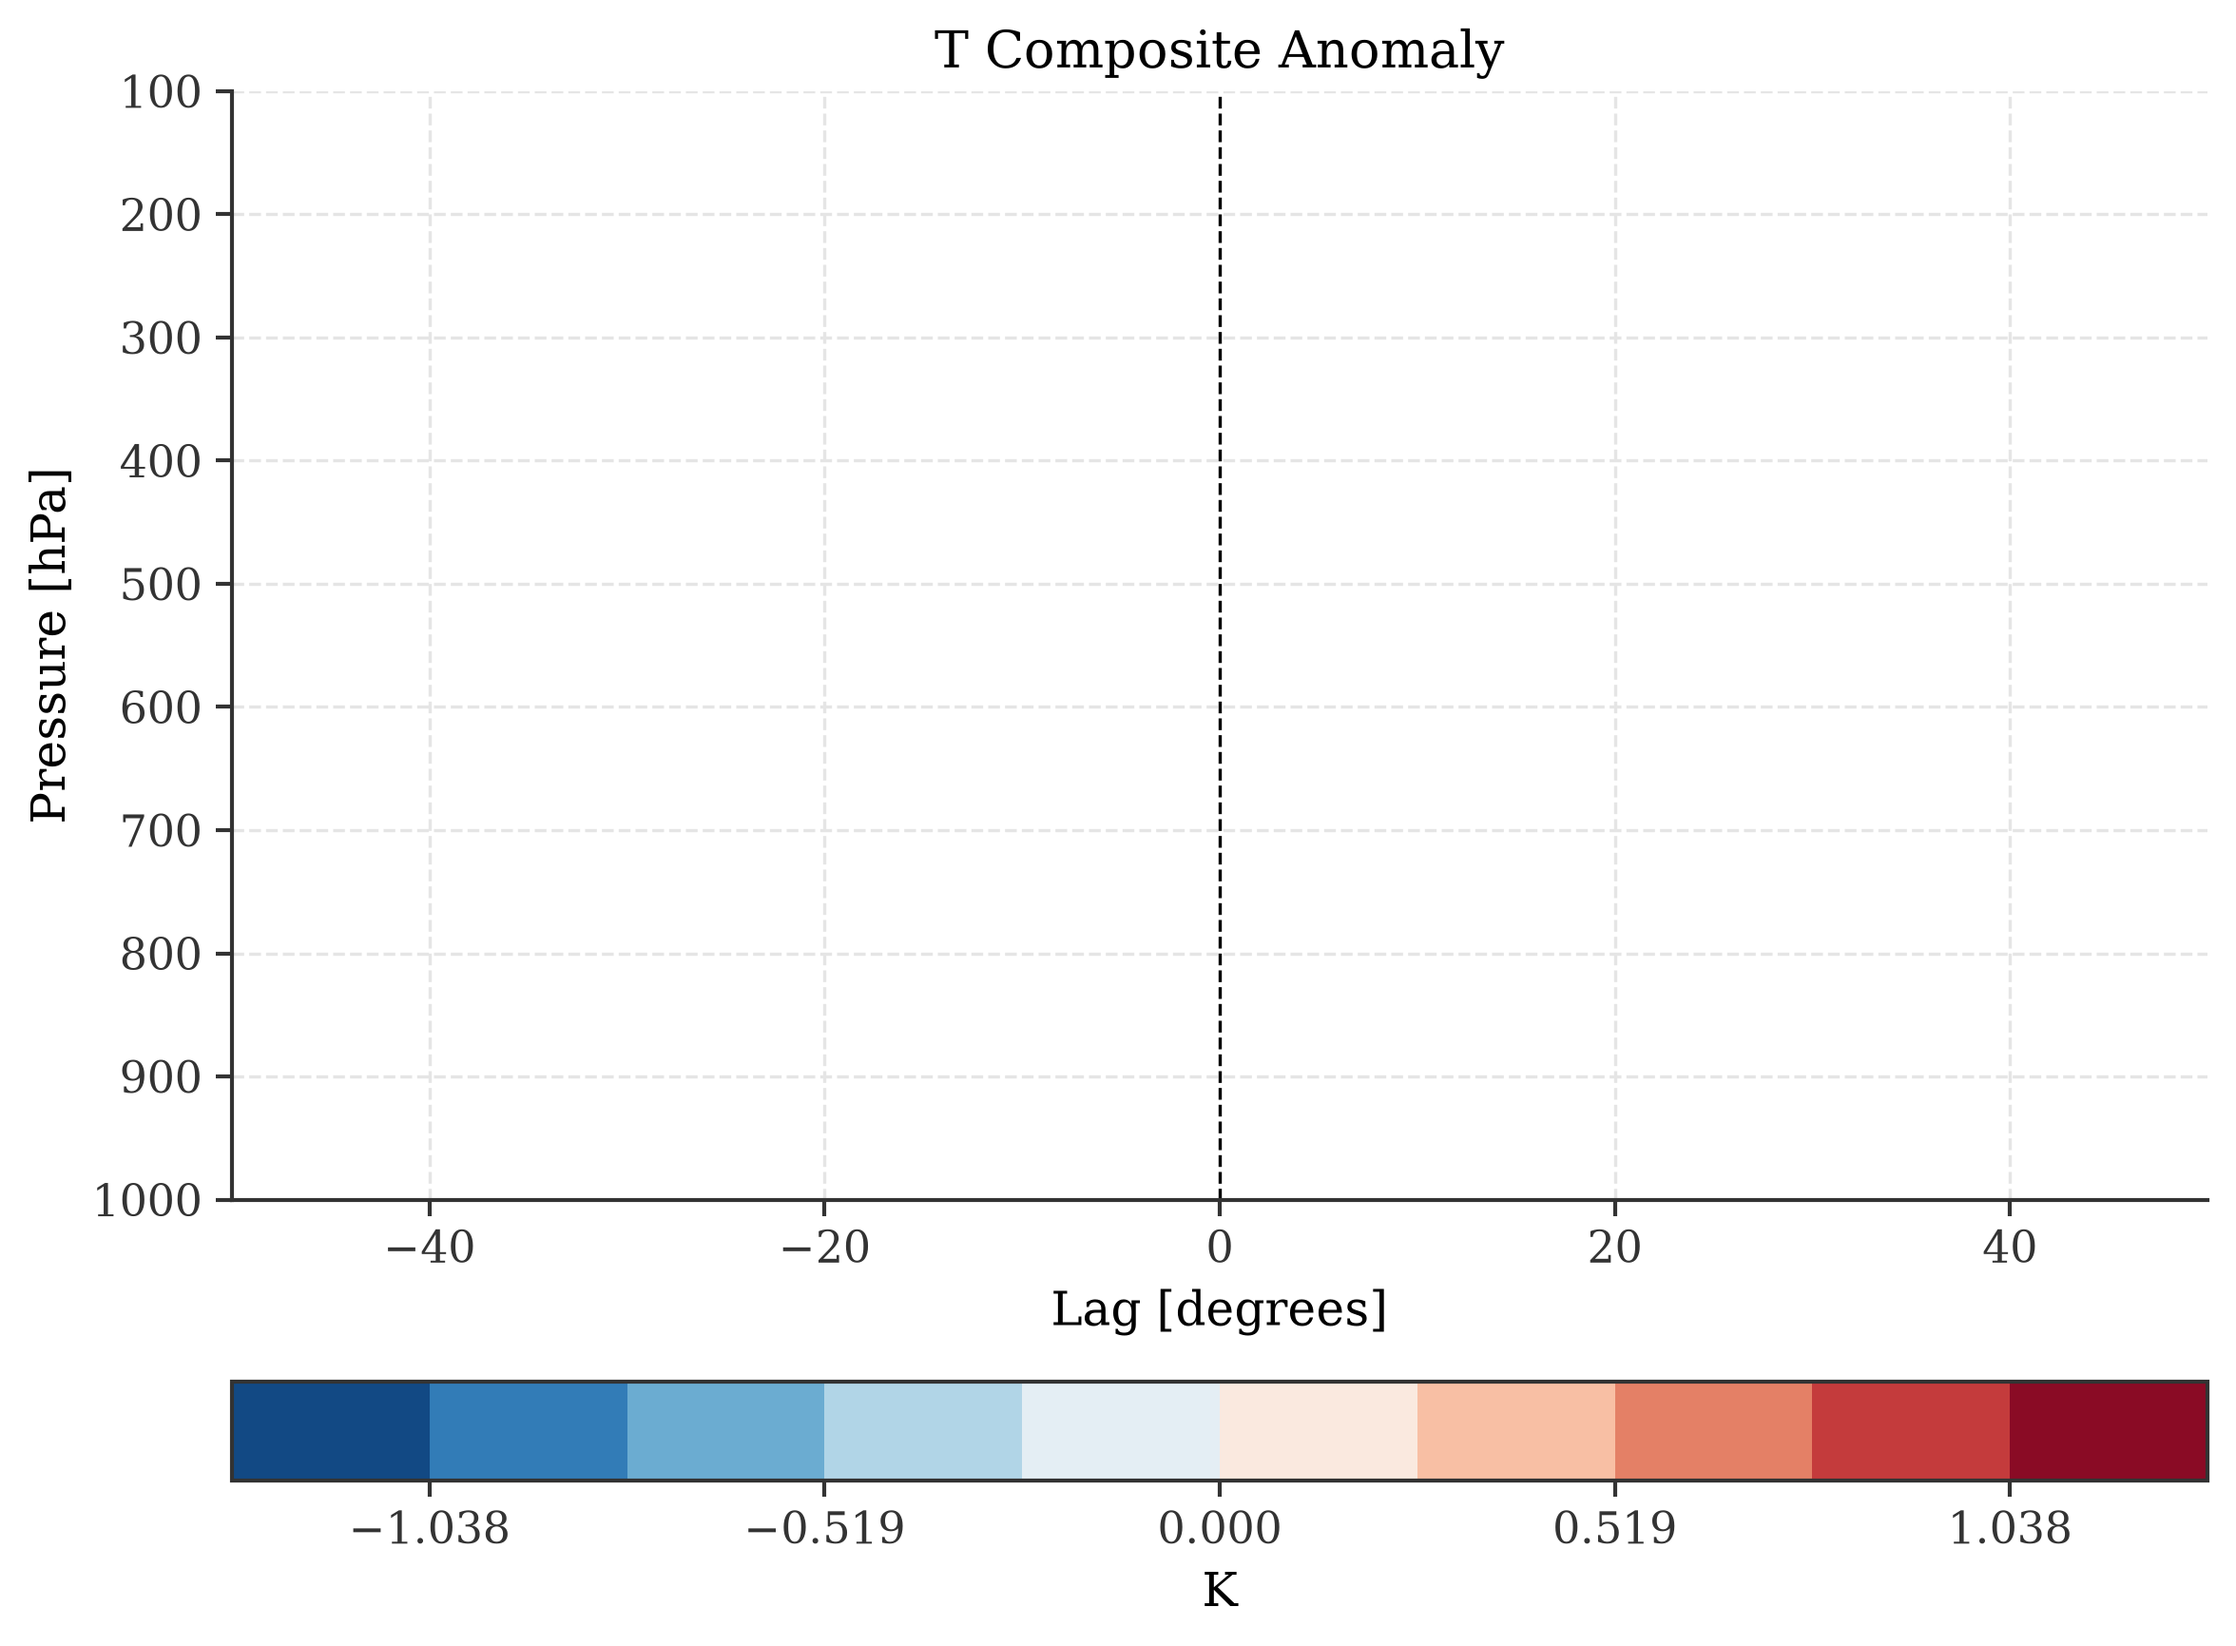
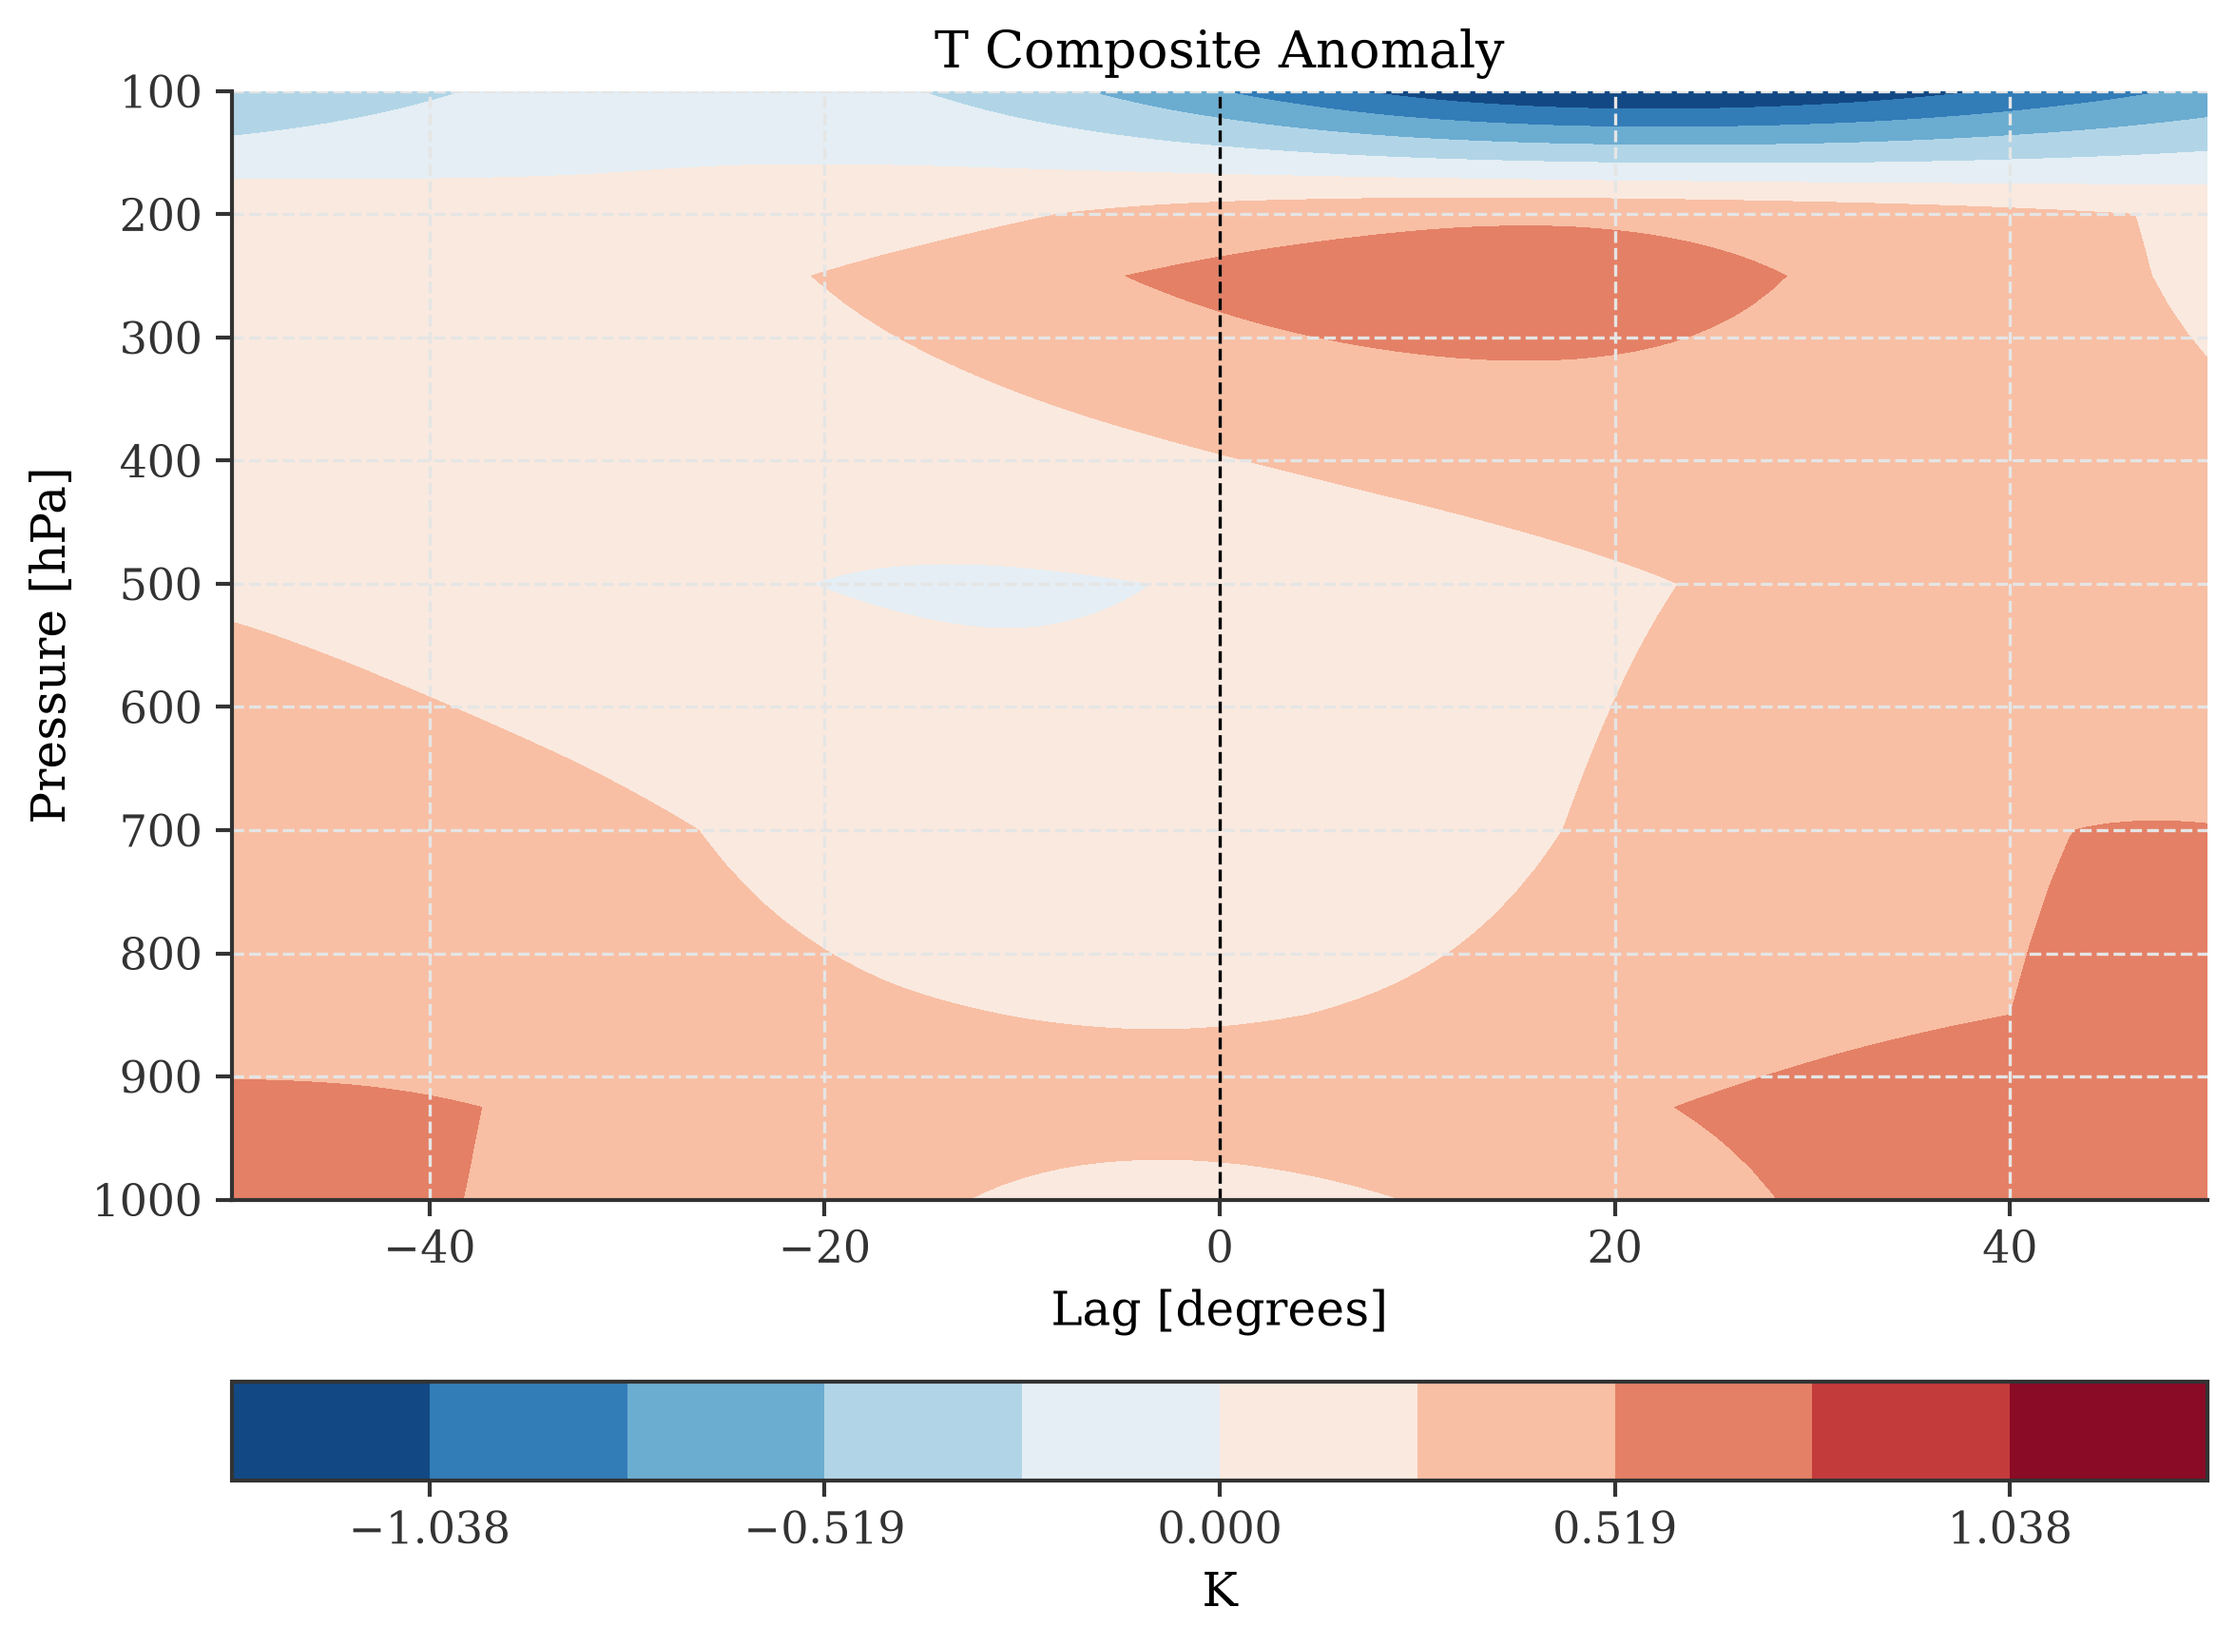
fix: convert pressure levels to hPa in contour plots and add debug prints

diff --git a/Code/ERA5_composite.py b/Code/ERA5_composite.py
@@ -141,10 +141,14 @@ def main(
     # concatenate along event
     w_conc: np.ndarray = np.array([w_roll[i] for i in range(w_roll.shape[0])])
     t_conc: np.ndarray = np.array([t_roll[i] for i in range(t_roll.shape[0])])
-
+    print("w_conc maximum: ", np.nanmax(w_conc))
+    print("t_conc maximum: ", np.nanmax(t_conc))
     # convolve over longitude
     w_comp = convolve1d(w_comp, np.ones(33)/33, axis=-1, mode="reflect")
     t_comp = convolve1d(t_comp, np.ones(33)/33, axis=-1, mode="reflect")
+
+    print("w_comp maximum: ", np.max(w_comp))
+    print("t_comp maximum: ", np.max(t_comp))
 
     pprint("Finished: composite")
 
@@ -164,7 +168,7 @@ def main(
 
     w_cf = ax.contourf(
         lags,
-        coords["lev"],
+        coords["lev"]//100,
         w_comp,
         levels=w_lev,
         cmap="RdBu_r",
@@ -193,7 +197,7 @@ def main(
 
     t_cf = ax.contourf(
         lags,
-        coords["lev"],
+        coords["lev"]//100,
         t_comp,
         levels=t_lev,
         cmap="RdBu_r",

diff --git a/Code/Rad_mode_predict.py b/Code/Rad_mode_predict.py
@@ -82,7 +82,6 @@ def main(data_type: str) -> None:
 
     w1_era5: np.ndarray = interp1d(p/100.0, w1, fill_value="extrapolate")(p_era5)
     w2_era5: np.ndarray = interp1d(p/100.0, w2, fill_value="extrapolate")(p_era5)
-
     # ------------------------------------------------
     # predict radiation through Jacobian Matrix
     # ------------------------------------------------

diff --git a/Code/QR_w_Relation.py b/Code/QR_w_Relation.py
@@ -143,6 +143,8 @@ def main(data_type: str) -> None:
     
     pls_lw.fit(w_train, lw_train)
     pls_sw.fit(w_train, sw_train)
+
+    print(w_train.shape, lw_train.shape, sw_train.shape)
     
     # Extract Jacobian Matrices (equivalent to the M_lw and M_sw matrices)
     # PLS prediction is internally: Y_pred = (X - X_mean) @ coef_ + Y_mean
